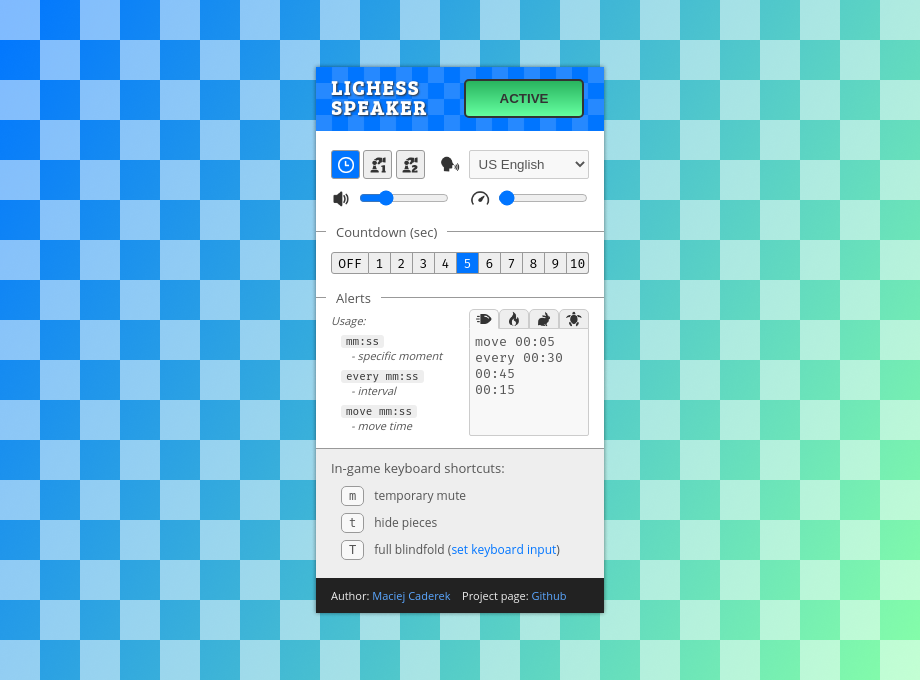
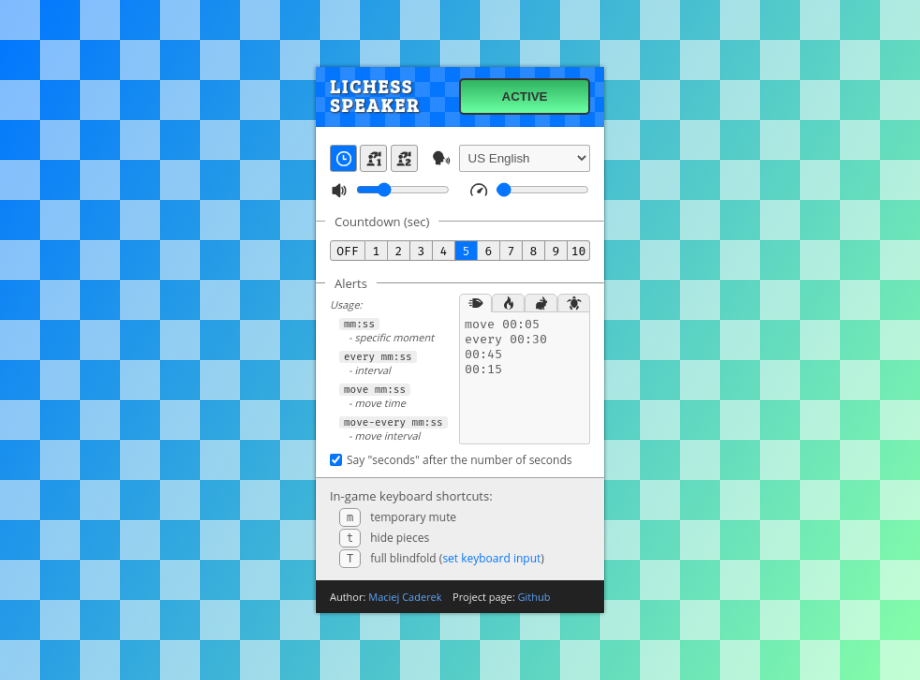
Cleanup, do not override config on update (only add new keys)

Changed region(s): [[0.3348, 0.0926, 0.6696, 0.8956]]

diff --git a/chrome/popup/styles.css b/chrome/popup/styles.css
@@ -60,9 +60,9 @@ pre {
   border: none;
   color: black;
   position: absolute;
-  right: 20px;
+  right: 15px;
   top: 12px;
-  width: 120px;
+  width: 140px;
   text-align: center;
   outline: none;
   color: #333;
@@ -259,10 +259,11 @@ textarea {
   z-index: 2;
   position: relative;
   top: 1px;
+  width: 140px;
 }
 
 .tab {
-  width: 30px;
+  width: 35px;
   height: 20px;
   background: #eee;
   border: solid 1px #ccc;
@@ -381,6 +382,7 @@ textarea {
 }
 
 .alerts__options {
+  color: #555;
   display: flex;
   align-items: center;
   flex-basis: 100%;
@@ -461,7 +463,7 @@ textarea {
 }
 
 .shortcuts p {
-  margin-bottom: 10px;
+  margin-bottom: 5px;
 }
 
 .shortcuts__title {

diff --git a/chrome/background.js b/chrome/background.js
@@ -31,5 +31,13 @@ const defaultConfig = {
 };
 
 chrome.runtime.onInstalled.addListener(() => {
-  chrome.storage.sync.set(defaultConfig);
+  chrome.storage.sync.get(Object.keys(defaultConfig), (config) => {
+    for (const key in defaultConfig) {
+      if (!config[key]) {
+        config[key] = defaultConfig[key];
+      }
+    }
+
+    chrome.storage.sync.set(config);
+  });
 });
